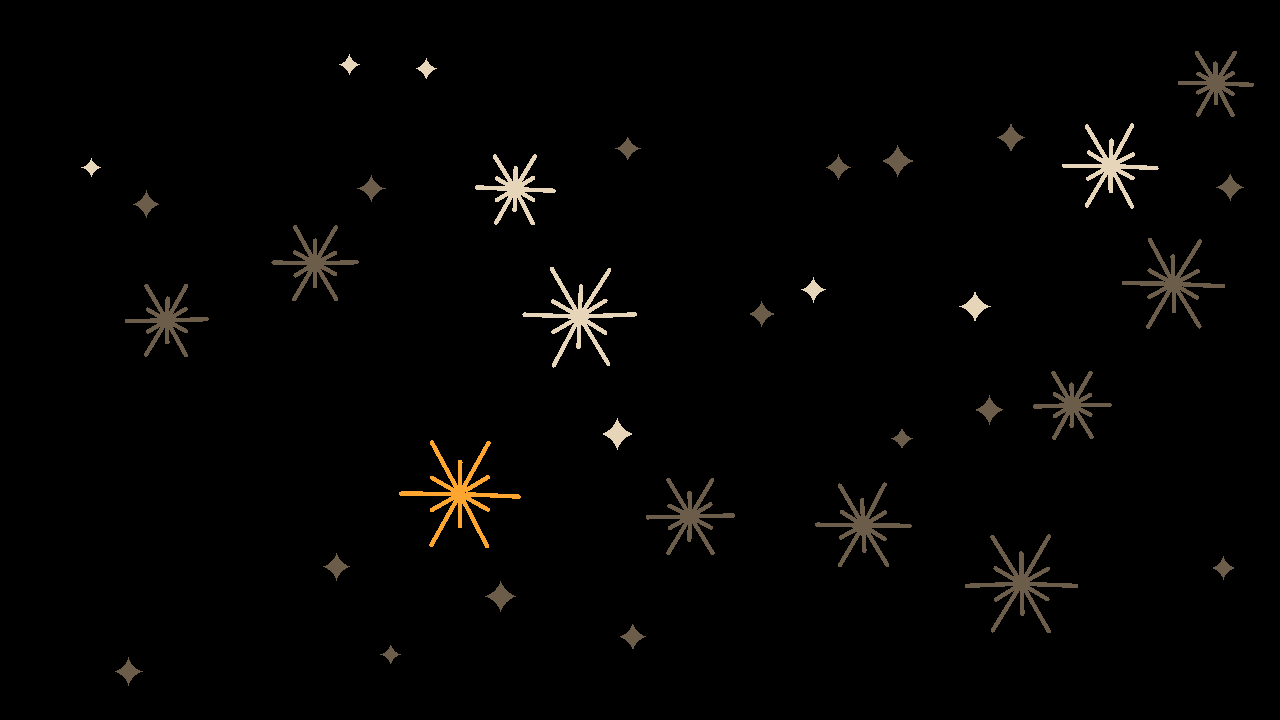
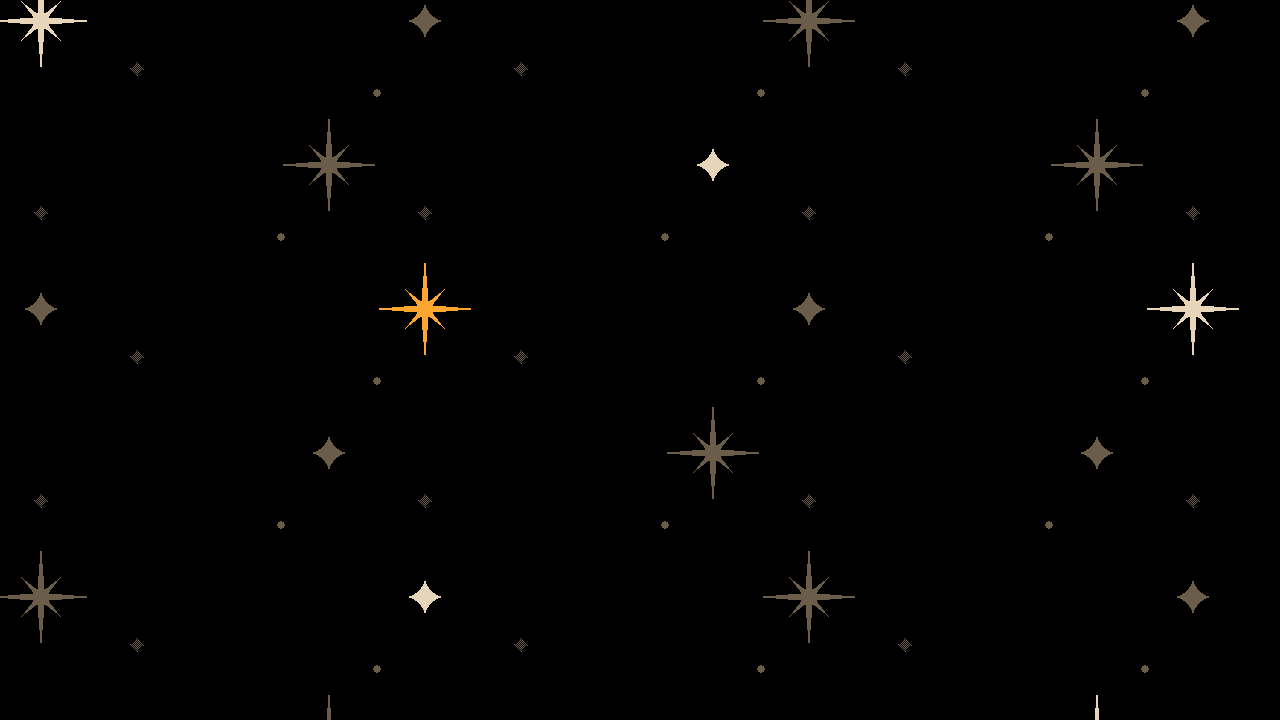
Seven line art, lava lamp default, atomic print, trace

diff --git a/README.md b/README.md
@@ -10,27 +10,27 @@ omarchy-theme-install https://github.com/limehawk/omarchy-amber-oled-theme
 
 ## What's in it
 
-- **125 wallpapers at 4K**, hand drawn in code as Bayer-dithered dots and ASCII glyphs, in parchment, walnut and amber on `#000000`.
+- **132 wallpapers at 4K**, hand drawn in code as Bayer-dithered dots and ASCII glyphs, in parchment, walnut and amber on `#000000`.
 - **A terminal palette to match**: parchment text, amber accent, and warm mid-century colours that keep diffs and errors readable.
 - **A boot unlock logo**: the Sputnik chandelier, its bulbs amber, above the disk password (pick it in Style → Unlock).
 - Every other app (Hyprland, the shell, btop, Neovim, VS Code, Chromium and the rest) is generated by Omarchy from one `colors.toml`.
 
 ## Wallpapers
 
-The background picker walks through them by style, one highlight from each below. The default is the Knoxville skyline with the Omarchy billboard, under Minimal.
+The background picker walks through them by style, one highlight from each below. The lava lamp at the top is the default.
 
 Up close, at one screen pixel to one image pixel: the dither is the look. Fades break into single dots, so the grid and the gradient show at once.
 
-![Close-ups at 1:1: an Edison bulb's spiral filament, the JFG billboard in Knoxville, a Lissajous figure](screenshots/closeup.png)
+![Close-ups at 1:1: an Edison bulb's spiral filament, a Nixie tube's glowing digits, a Lissajous figure](screenshots/closeup.png)
 
 ### Line art
 
 Starbursts, Sputniks and orbits in fine dotted strokes.
 
-![A Sputnik with an amber core](screenshots/2020-sputnik.png)
+<img src="screenshots/2060-starshower.png" alt="Shooting stars across a night sky, one head amber" width="100%">
 
 <details>
-<summary>All 16 line art pieces</summary>
+<summary>All 23 line art pieces</summary>
 
 <!-- walls:line-art -->
 ![Sputnik: Atom, amber nucleus](screenshots/walls/2020-sputnik.png)
@@ -80,6 +80,27 @@ Starbursts, Sputniks and orbits in fine dotted strokes.
 
 ![Saucer: Rim lights, dotted beam](screenshots/walls/2170-saucer.png)
 2170 · Saucer
+
+![Star trails: Circling Polaris, amber](screenshots/walls/2180-startrails.png)
+2180 · Star trails
+
+![Radio tower: Rings from an amber beacon](screenshots/walls/2190-radiotower.png)
+2190 · Radio tower
+
+![Armillary: Rings round an amber sun](screenshots/walls/2200-armillary.png)
+2200 · Armillary
+
+![Firework: Dotted burst, amber core](screenshots/walls/2210-firework.png)
+2210 · Firework
+
+![Lighthouse: Beam over the water](screenshots/walls/2220-lighthouse.png)
+2220 · Lighthouse
+
+![Big Dipper: Pointing to amber Polaris](screenshots/walls/2230-bigdipper.png)
+2230 · Big Dipper
+
+![Crescent: Moon, haze, one amber planet](screenshots/walls/2240-crescent.png)
+2240 · Crescent
 <!-- /walls:line-art -->
 </details>
 
@@ -87,7 +108,7 @@ Starbursts, Sputniks and orbits in fine dotted strokes.
 
 Mostly black. Knoxville at night: downtown and the Sunsphere across the river, and an Omarchy billboard lit up on the bluff.
 
-![Knoxville at night with the Omarchy logo on a steel billboard in the foreground](screenshots/0005-knoxomarchy.png)
+<img src="screenshots/3122-knoxomarchy.png" alt="Knoxville at night with the Omarchy logo on a steel billboard in the foreground" width="100%">
 
 <details>
 <summary>All 25 minimal pieces</summary>
@@ -129,10 +150,10 @@ Mostly black. Knoxville at night: downtown and the Sunsphere across the river, a
 ![Skyline: Lit towers across the water](screenshots/walls/3120-citylights.png)
 3120 · Skyline
 
-![Knoxville, Omarchy: The Omarchy billboard on the bluff](screenshots/walls/0005-knoxomarchy.png)
-0005 · Knoxville, Omarchy
+![Knoxville, Omarchy: The Omarchy billboard on the bluff](screenshots/walls/3122-knoxomarchy.png)
+3122 · Knoxville, Omarchy
 
-![Knoxville: Sunsphere, JFG, the Henley bridge](screenshots/walls/3125-knoxville.png)
+![Knoxville: The Sunsphere and the Henley bridge](screenshots/walls/3125-knoxville.png)
 3125 · Knoxville
 
 ![Flipper skyline: The LIMEHAWK sign, the Sunsphere](screenshots/walls/3126-flipperknox.png)
@@ -174,7 +195,7 @@ Mostly black. Knoxville at night: downtown and the Sunsphere across the river, a
 
 Hi-fi gear and atomic-age lamps, lit like solid things.
 
-![A VU meter, its dial glowing amber](screenshots/1060-vu.png)
+<img src="screenshots/1060-vu.png" alt="A VU meter, its dial glowing amber" width="100%">
 
 <details>
 <summary>All 26 lit objects</summary>
@@ -264,7 +285,7 @@ Hi-fi gear and atomic-age lamps, lit like solid things.
 
 Flat mid-century textile patterns.
 
-![Diamond stars: a harlequin print with one amber star](screenshots/4270-diamondstars.png)
+<img src="screenshots/4270-diamondstars.png" alt="Diamond stars: a harlequin print with one amber star" width="100%">
 
 <details>
 <summary>All 31 prints</summary>
@@ -273,7 +294,7 @@ Flat mid-century textile patterns.
 ![Boomerangs: Formica scatter](screenshots/walls/4010-boomerangs.png)
 4010 · Boomerangs
 
-![Atomic print: Formica stars, one amber](screenshots/walls/4020-atomicprint.png)
+![Atomic print: Formica starbursts on a lattice](screenshots/walls/4020-atomicprint.png)
 4020 · Atomic print
 
 ![Dot pattern: Dots joined by thin lines](screenshots/walls/4030-dotpattern.png)
@@ -369,7 +390,7 @@ Flat mid-century textile patterns.
 
 The same world in glyphs.
 
-![A tube amp with its tubes glowing amber, drawn in ASCII](screenshots/5040-ampchassis.png)
+<img src="screenshots/5040-ampchassis.png" alt="A tube amp with its tubes glowing amber, drawn in ASCII" width="100%">
 
 <details>
 <summary>All 18 ASCII pieces</summary>
@@ -435,7 +456,7 @@ The same world in glyphs.
 
 Christmas lattice ornaments hung on cords, some with lamps inside, and for Halloween a spider let down on its thread and a jack-o'-lantern, only its carved face glowing in the dark.
 
-![A jack-o'-lantern in the dark, only its carved face glowing amber](screenshots/6110-jackolantern.png)
+<img src="screenshots/6110-jackolantern.png" alt="A jack-o'-lantern in the dark, only its carved face glowing amber" width="100%">
 
 <details>
 <summary>All 8 seasonal pieces</summary>
